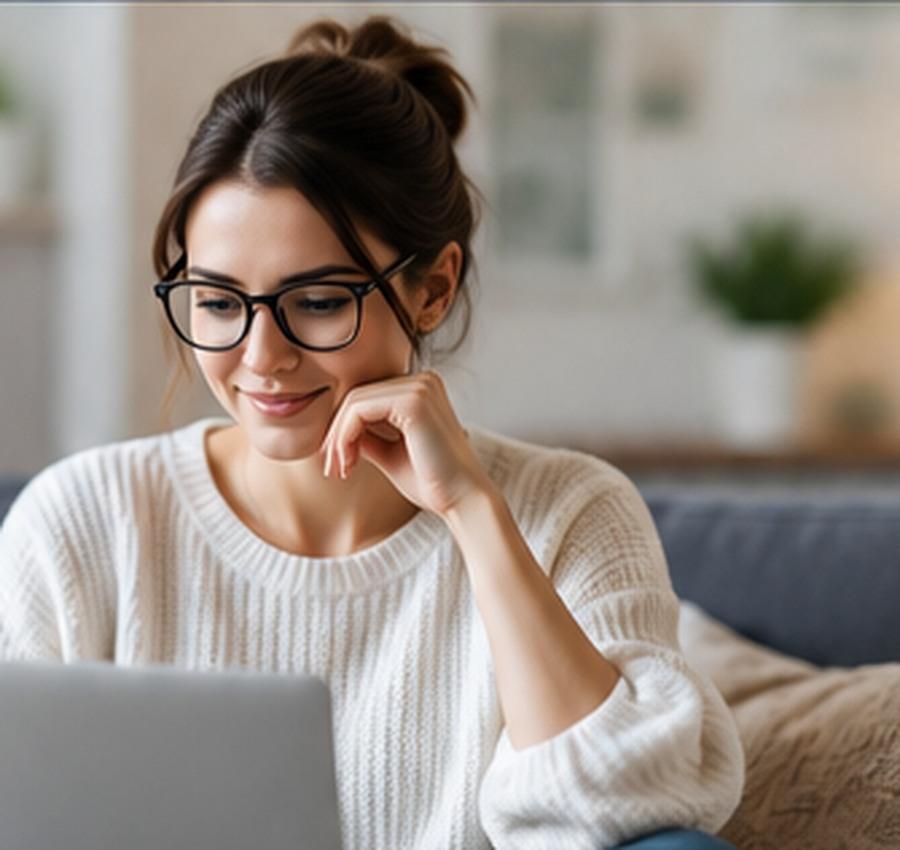
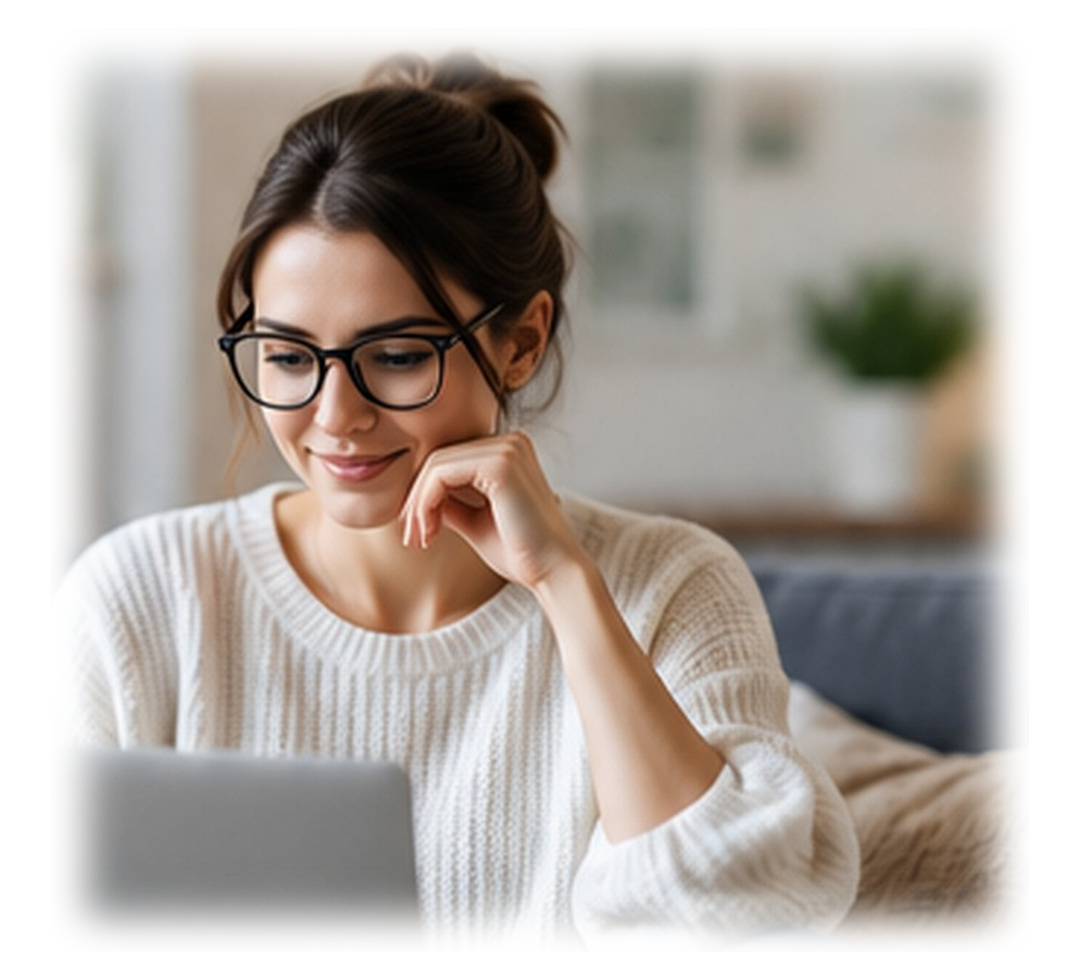
Add files via upload

diff --git a/assets/home-v2.css b/assets/home-v2.css
@@ -1,4 +1,4 @@
-/* FINAL DEPLOYMENT 2026-07-01: zaktualizowany hero, blend i kontrast tekstów. */
+/* FINAL DEPLOYMENT 2026-07-01: hero pełny kadr, delikatny blend krawędzi i poprawiony kontrast tekstów. */
 /*
   Strona główna — wersja inspirowana zaakceptowaną wizualizacją.
   Arkusz jest ładowany wyłącznie na index.html i nie zmienia podstron.
@@ -52,7 +52,7 @@
 .visual-hero{position:relative;overflow:hidden;background:linear-gradient(180deg,#fff 0%,#fbfdff 100%)}
 .visual-hero::before{content:"";position:absolute;width:620px;height:620px;left:-420px;top:-350px;border-radius:50%;background:radial-gradient(circle,rgba(11,114,234,.12),transparent 68%);pointer-events:none}
 .visual-hero::after{content:"";position:absolute;width:520px;height:520px;right:-360px;top:-240px;border-radius:50%;background:radial-gradient(circle,rgba(11,114,234,.09),transparent 68%);pointer-events:none}
-.visual-hero-grid{display:grid;grid-template-columns:minmax(0,.82fr) minmax(560px,1.18fr);align-items:center;gap:26px;min-height:535px;padding:28px 0 40px}
+.visual-hero-grid{display:grid;grid-template-columns:minmax(0,.82fr) minmax(640px,1.18fr);align-items:center;gap:34px;min-height:545px;padding:28px 0 44px}
 .visual-hero-copy{display:flex;flex-direction:column;justify-content:center;position:relative;z-index:3;padding:24px 10px 24px 0}
 .visual-hero-copy h1{max-width:630px;margin:0 0 22px;font-size:clamp(2.9rem,4.7vw,4.55rem);line-height:1.03;font-weight:850}
 .visual-hero-copy h1 span{display:block;color:var(--vh-blue)}
@@ -62,11 +62,11 @@
 .visual-text-link{display:inline-flex;align-items:center;gap:9px;color:var(--vh-heading);font-size:.93rem;font-weight:800;text-decoration:none;border-bottom:1px solid rgba(7,29,61,.25);padding-bottom:3px}
 .visual-text-link:hover{color:var(--vh-blue);border-color:var(--vh-blue)}
 .visual-text-link svg{width:18px;height:18px}
-.visual-hero-photo{position:relative;min-height:480px;border-radius:0;overflow:hidden;background:transparent;box-shadow:none;isolation:isolate}
-.visual-hero-photo::before{content:"";position:absolute;z-index:2;inset:0;background:linear-gradient(90deg,rgba(255,255,255,1) 0%,rgba(255,255,255,.98) 7%,rgba(255,255,255,.86) 14%,rgba(255,255,255,.55) 22%,rgba(255,255,255,.18) 31%,rgba(255,255,255,0) 43%,rgba(255,255,255,0) 82%,rgba(255,255,255,.12) 93%,rgba(255,255,255,.24) 100%),linear-gradient(180deg,rgba(255,255,255,.9) 0%,rgba(255,255,255,0) 12%,rgba(255,255,255,0) 87%,rgba(255,255,255,.9) 100%);pointer-events:none}
-.visual-hero-photo picture,.visual-hero-photo img{width:100%;height:100%}
-.visual-hero-photo img{position:absolute;inset:0;width:100%;height:100%;object-fit:cover;object-position:center center;border-radius:24px}
-.visual-hero-card{position:absolute;z-index:3;right:22px;bottom:21px;display:grid;grid-template-columns:auto 1fr;gap:13px;align-items:center;width:min(360px,calc(100% - 44px));padding:18px 19px;border:1px solid rgba(255,255,255,.7);border-radius:15px;background:rgba(255,255,255,.93);box-shadow:0 16px 38px rgba(6,27,58,.18);backdrop-filter:blur(12px)}
+.visual-hero-photo{position:relative;display:flex;justify-content:flex-end;align-self:end;min-height:0;padding:8px 0 6px;overflow:visible;background:transparent;box-shadow:none;isolation:isolate}
+.visual-hero-photo::before{content:"";position:absolute;z-index:2;inset:0;background:linear-gradient(90deg,#fff 0%,rgba(255,255,255,.88) 3.5%,rgba(255,255,255,.30) 8%,rgba(255,255,255,0) 12%,rgba(255,255,255,0) 88%,rgba(255,255,255,.30) 92%,rgba(255,255,255,.88) 96.5%,#fff 100%),linear-gradient(180deg,rgba(255,255,255,.84) 0%,rgba(255,255,255,.20) 6%,rgba(255,255,255,0) 11%,rgba(255,255,255,0) 89%,rgba(255,255,255,.20) 94%,rgba(255,255,255,.84) 100%);pointer-events:none}
+.visual-hero-photo picture{position:relative;z-index:1;display:block;width:100%;max-width:880px;height:auto;margin-left:auto}
+.visual-hero-photo img{position:relative;display:block;width:100%;height:auto;object-fit:contain;object-position:center center;border-radius:0}
+.visual-hero-card{position:absolute;z-index:3;right:22px;bottom:24px;display:grid;grid-template-columns:auto 1fr;gap:13px;align-items:center;width:min(360px,calc(100% - 44px));padding:18px 19px;border:1px solid rgba(255,255,255,.76);border-radius:15px;background:rgba(255,255,255,.94);box-shadow:0 16px 38px rgba(6,27,58,.18);backdrop-filter:blur(12px)}
 .visual-card-icon{display:grid;place-items:center;width:47px;height:47px;border-radius:13px;background:var(--vh-sky);color:var(--vh-navy)}
 .visual-card-icon svg{width:25px;height:25px}
 .visual-hero-card strong{display:block;margin-bottom:3px;color:var(--vh-heading);font-size:.95rem}
@@ -97,8 +97,8 @@
 .visual-quick-check{padding-top:50px;background:#fff}
 .visual-quick-shell{display:grid;grid-template-columns:minmax(270px,.36fr) minmax(0,.64fr);border:1px solid #d9e4f0;border-radius:20px;background:#fff;box-shadow:0 24px 62px rgba(6,27,58,.1);overflow:hidden}
 .visual-quick-intro{padding:39px 32px;background:linear-gradient(145deg,#082b5b,#041a39);color:#dce9f8}
-.home-page main .visual-quick-intro h2{margin:0 0 17px;color:#fff!important;font-size:clamp(2rem,3vw,2.8rem);line-height:1.08}
-.visual-quick-intro>p:not(.visual-eyebrow):not(.visual-quick-legal){margin:0;color:#d4e1f0;line-height:1.65}
+.home-page main .visual-quick-intro h2,.home-page main .visual-quick-intro #quick-check-title{margin:0 0 17px;color:#fff!important;font-size:clamp(2rem,3vw,2.8rem);line-height:1.08;text-shadow:0 1px 0 rgba(0,0,0,.12)}
+.visual-quick-intro>p:not(.visual-eyebrow):not(.visual-quick-legal){margin:0;color:#e3edf8;line-height:1.65}
 .visual-quick-intro li{color:#fff!important}
 .visual-quick-legal{color:#abc0d8!important}
 .visual-quick-intro ul{display:grid;gap:14px;margin:26px 0;padding:0;list-style:none}
@@ -186,8 +186,8 @@
 .visual-final-card{display:grid;grid-template-columns:auto minmax(0,1fr) auto;align-items:center;gap:24px;padding:28px 31px;border-radius:16px;background:linear-gradient(120deg,#06244c,#061a38);color:#dce9f7;box-shadow:0 22px 50px rgba(6,27,58,.17)}
 .visual-final-icon{display:grid;place-items:center;width:60px;height:60px;color:#fff}
 .visual-final-icon svg{width:49px;height:49px}
-.home-page main .visual-final-card h2{margin:0 0 6px;color:#fff!important;font-size:clamp(1.45rem,2.4vw,2rem)}
-.visual-final-card p{margin:0;color:#d6e2ef!important;font-size:.9rem}
+.home-page main .visual-final-card h2,.home-page main .visual-final-card #final-cta-title{margin:0 0 6px;color:#fff!important;font-size:clamp(1.45rem,2.4vw,2rem);text-shadow:0 1px 0 rgba(0,0,0,.12)}
+.visual-final-card p{margin:0;color:#e3edf8!important;font-size:.9rem}
 .visual-final-actions{display:flex;gap:14px}
 .home-footer-note{margin:0 0 20px;padding-top:23px;border-top:1px solid rgba(255,255,255,.1);color:#92a4ba;font-size:.78rem;line-height:1.6}
 
@@ -196,7 +196,7 @@
   .home-page .nav-links{gap:0}
   .home-page .nav-links a{padding-inline:9px;font-size:.87rem}
   .home-page .header-cta{padding-inline:15px;font-size:.88rem}
-  .visual-hero-grid{grid-template-columns:minmax(0,.88fr) minmax(470px,1.12fr);min-height:510px}
+  .visual-hero-grid{grid-template-columns:minmax(0,.9fr) minmax(560px,1.1fr);min-height:500px}
   .visual-hero-copy h1{font-size:clamp(2.65rem,4.6vw,4rem)}
   .visual-facts article{padding-inline:22px}
 }
@@ -206,7 +206,7 @@
   .visual-hero-grid{grid-template-columns:1fr;gap:25px;padding:45px 0}
   .visual-hero-copy{padding:0}
   .visual-hero-copy h1{max-width:760px}
-  .visual-hero-photo{min-height:455px;max-width:780px;width:100%;margin:0 auto}
+  .visual-hero-photo{max-width:820px;width:100%;margin:0 auto;padding:0}
   .visual-facts-grid{grid-template-columns:1fr}
   .visual-facts article{min-height:auto}
   .visual-facts article+article::before{left:24px;right:24px;top:0;bottom:auto;width:auto;height:1px}
@@ -231,8 +231,8 @@
   .visual-hero-actions{display:grid;gap:14px}
   .visual-button{width:100%}
   .visual-text-link{justify-content:center;width:max-content;max-width:100%;margin:auto}
-  .visual-hero-photo{min-height:390px;border-radius:20px}
-  .visual-hero-photo::before{background:linear-gradient(90deg,rgba(255,255,255,.78) 0%,rgba(255,255,255,.30) 14%,rgba(255,255,255,0) 29%,rgba(255,255,255,0) 86%,rgba(255,255,255,.10) 100%),linear-gradient(180deg,rgba(255,255,255,.70) 0%,rgba(255,255,255,0) 10%,rgba(255,255,255,0) 90%,rgba(255,255,255,.70) 100%)}
+  .visual-hero-photo{padding:0}
+  .visual-hero-photo::before{background:linear-gradient(90deg,rgba(255,255,255,.92) 0%,rgba(255,255,255,.34) 10%,rgba(255,255,255,0) 18%,rgba(255,255,255,0) 82%,rgba(255,255,255,.24) 90%,rgba(255,255,255,.92) 100%),linear-gradient(180deg,rgba(255,255,255,.88) 0%,rgba(255,255,255,.12) 10%,rgba(255,255,255,0) 18%,rgba(255,255,255,0) 82%,rgba(255,255,255,.14) 90%,rgba(255,255,255,.88) 100%)}
   .visual-hero-card{right:13px;left:13px;bottom:13px;width:auto;padding:14px}
   .visual-card-icon{width:42px;height:42px}
   .visual-hero-card p{font-size:.75rem}

diff --git a/index.html b/index.html
@@ -10,7 +10,7 @@
   <link rel="icon" sizes="32x32" type="image/png" href="images/logo/favicon-32x32.png"/>
   <link rel="apple-touch-icon" href="images/logo/favicon-180x180.png"/>
   <link rel="stylesheet" href="assets/styles.css"/>
-  <link rel="stylesheet" href="assets/home-v2.css?v=20260701-final"/>
+  <link rel="stylesheet" href="assets/home-v2.css?v=20260701-hero3"/>
 </head>
 <body class="home-page">
   <a class="skip-link" href="#main-content">Przejdź do treści</a>
@@ -66,8 +66,8 @@
 
         <div class="visual-hero-photo">
           <picture>
-            <source media="(max-width: 760px)" srcset="images/hero-zdalnie-mobile.jpg"/>
-            <img src="images/hero-zdalnie.jpg" width="1422" height="948" fetchpriority="high" alt="Kobieta uczestnicząca w zdalnej rozmowie przy laptopie"/>
+            <source media="(max-width: 760px)" srcset="images/hero-zdalnie-mobile.jpg?v=20260701-hero3"/>
+            <img src="images/hero-zdalnie.jpg?v=20260701-hero3" width="1600" height="1080" fetchpriority="high" alt="Kobieta uczestnicząca w zdalnej rozmowie przy laptopie"/>
           </picture>
           <div class="visual-hero-card">
             <span class="visual-card-icon" aria-hidden="true">
